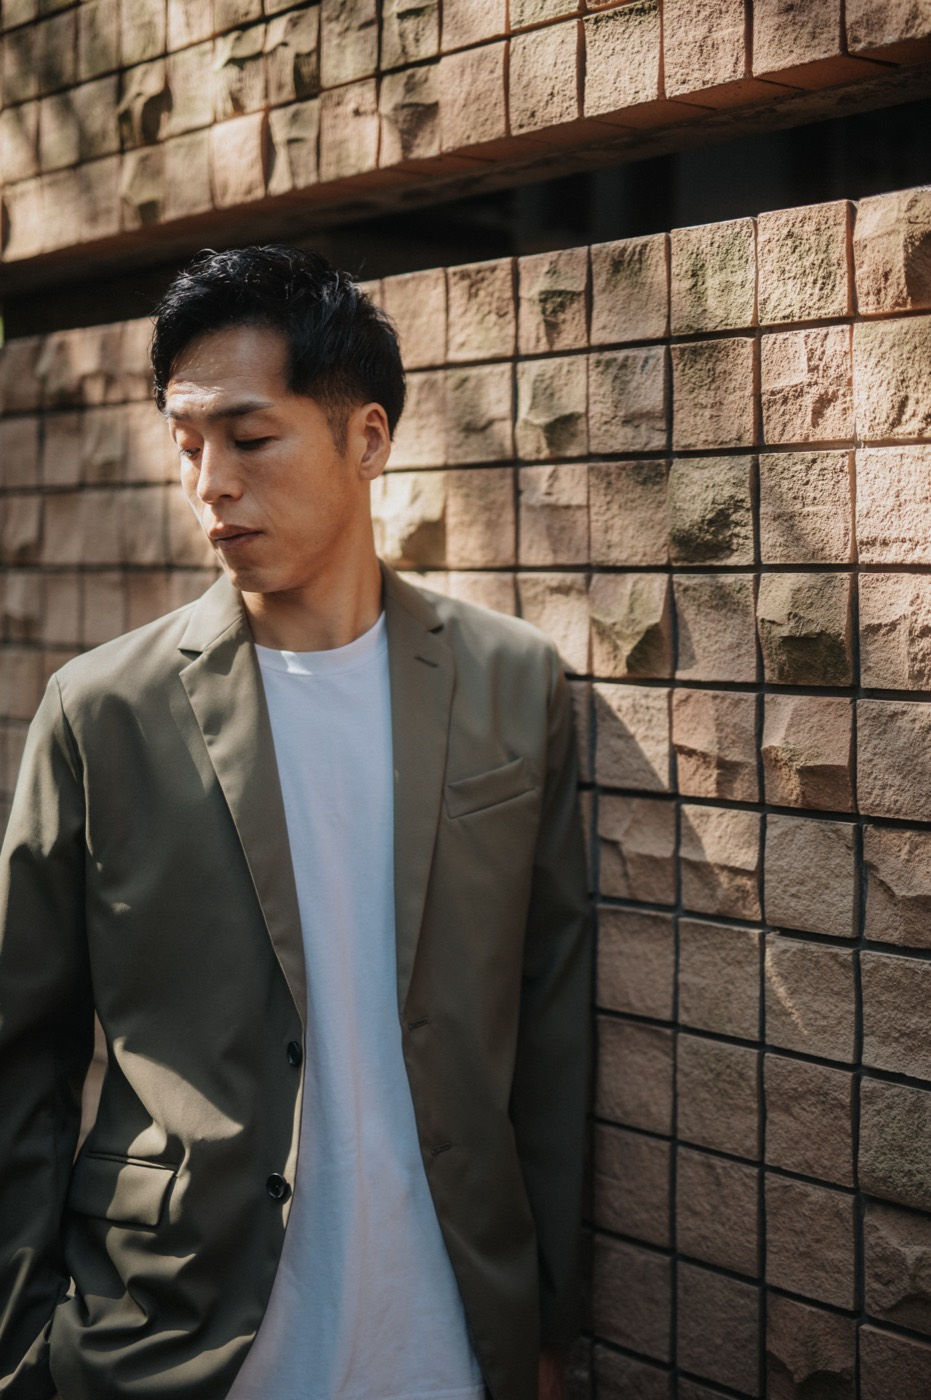
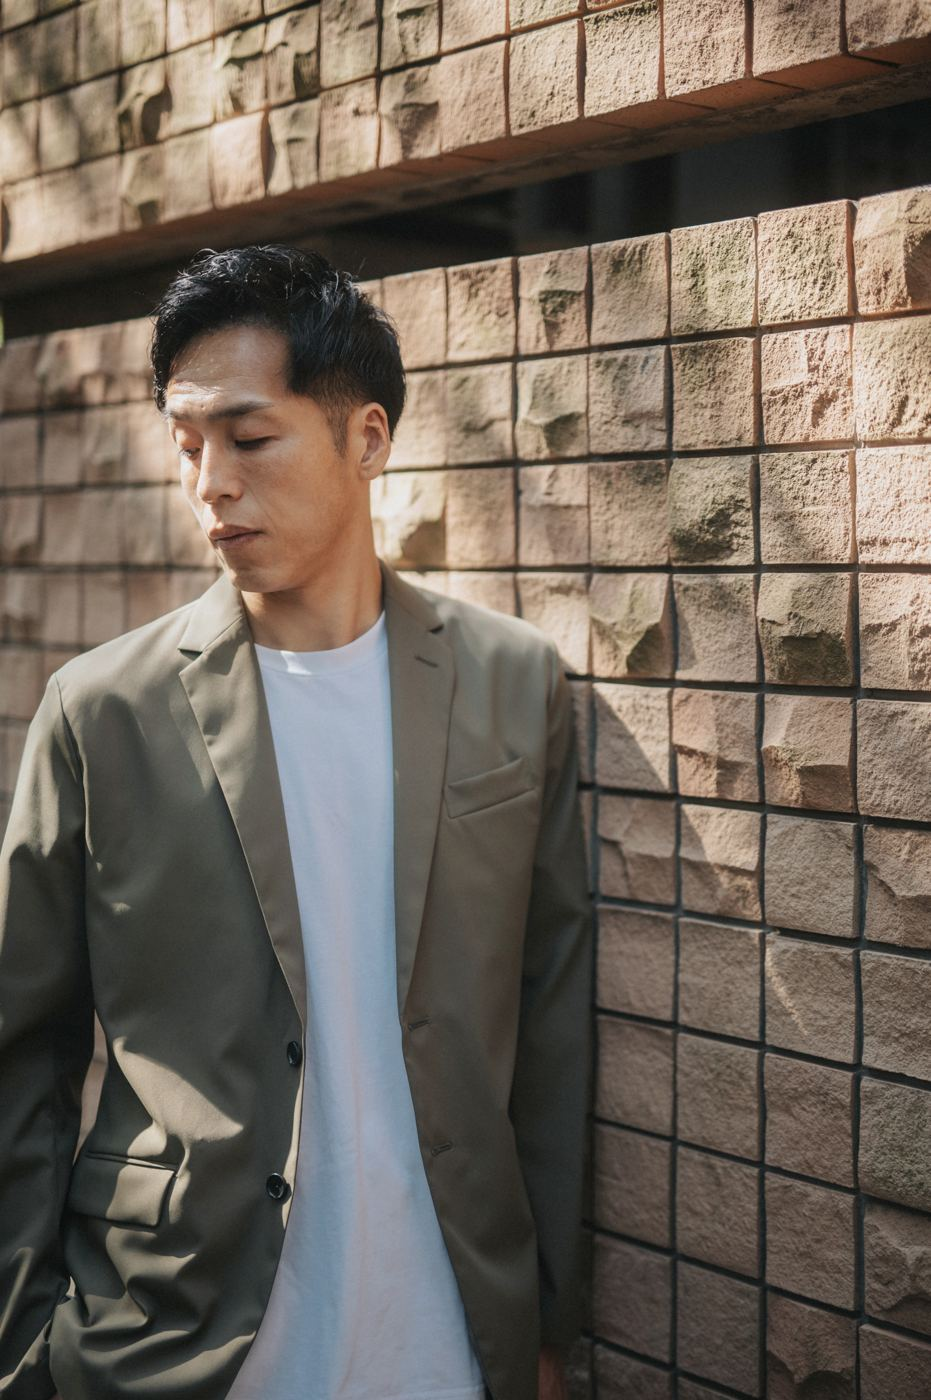
lp: 講義写真を明るく補正・切り抜き

diff --git a/lp/index.html b/lp/index.html
@@ -272,8 +272,8 @@ footer{text-align:center;color:var(--muted);font-size:14px;padding:30px 20px 10p
   <h2 class="rv">現場で磨いたことを、<br>ふだんの暮らしへ。</h2>
   <div class="me">
     <div class="duo rv">
-      <figure class="photo"><img src="img/lecture.jpg" alt="講義の様子" loading="lazy" width="1400" height="1050"><figcaption>講義の様子</figcaption></figure>
-      <figure class="photo"><img src="img/brick.jpg" alt="ながたか" loading="lazy" width="931" height="1400"></figure>
+      <figure class="photo"><img src="img/lecture.jpg?v=2" alt="講義の様子" loading="lazy" width="1400" height="811"><figcaption>講義の様子</figcaption></figure>
+      <figure class="photo"><img src="img/brick.jpg?v=2" alt="ながたか" loading="lazy" width="931" height="1400"></figure>
     </div>
     <div class="body rv">
       <p>スポーツの現場で、選手の体づくりを支えてきました。<br>やりがいのある仕事です。</p>
